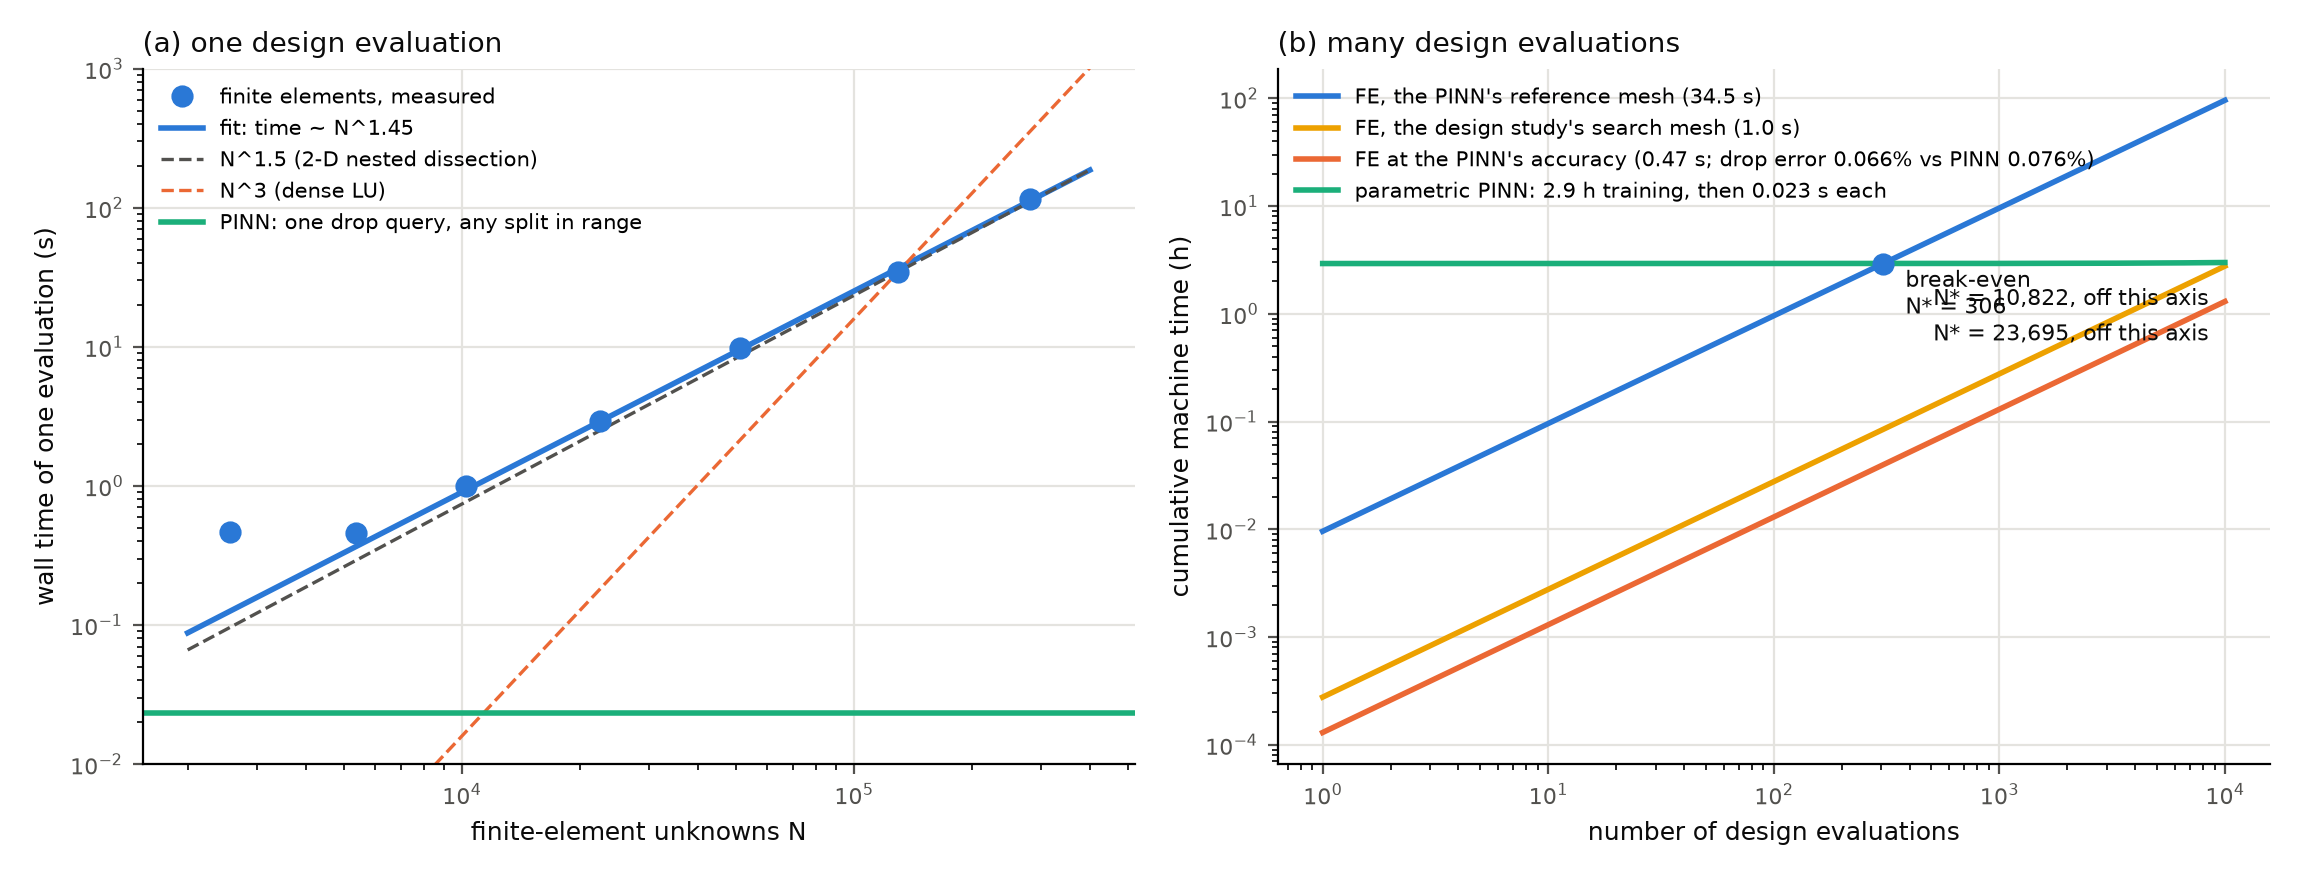
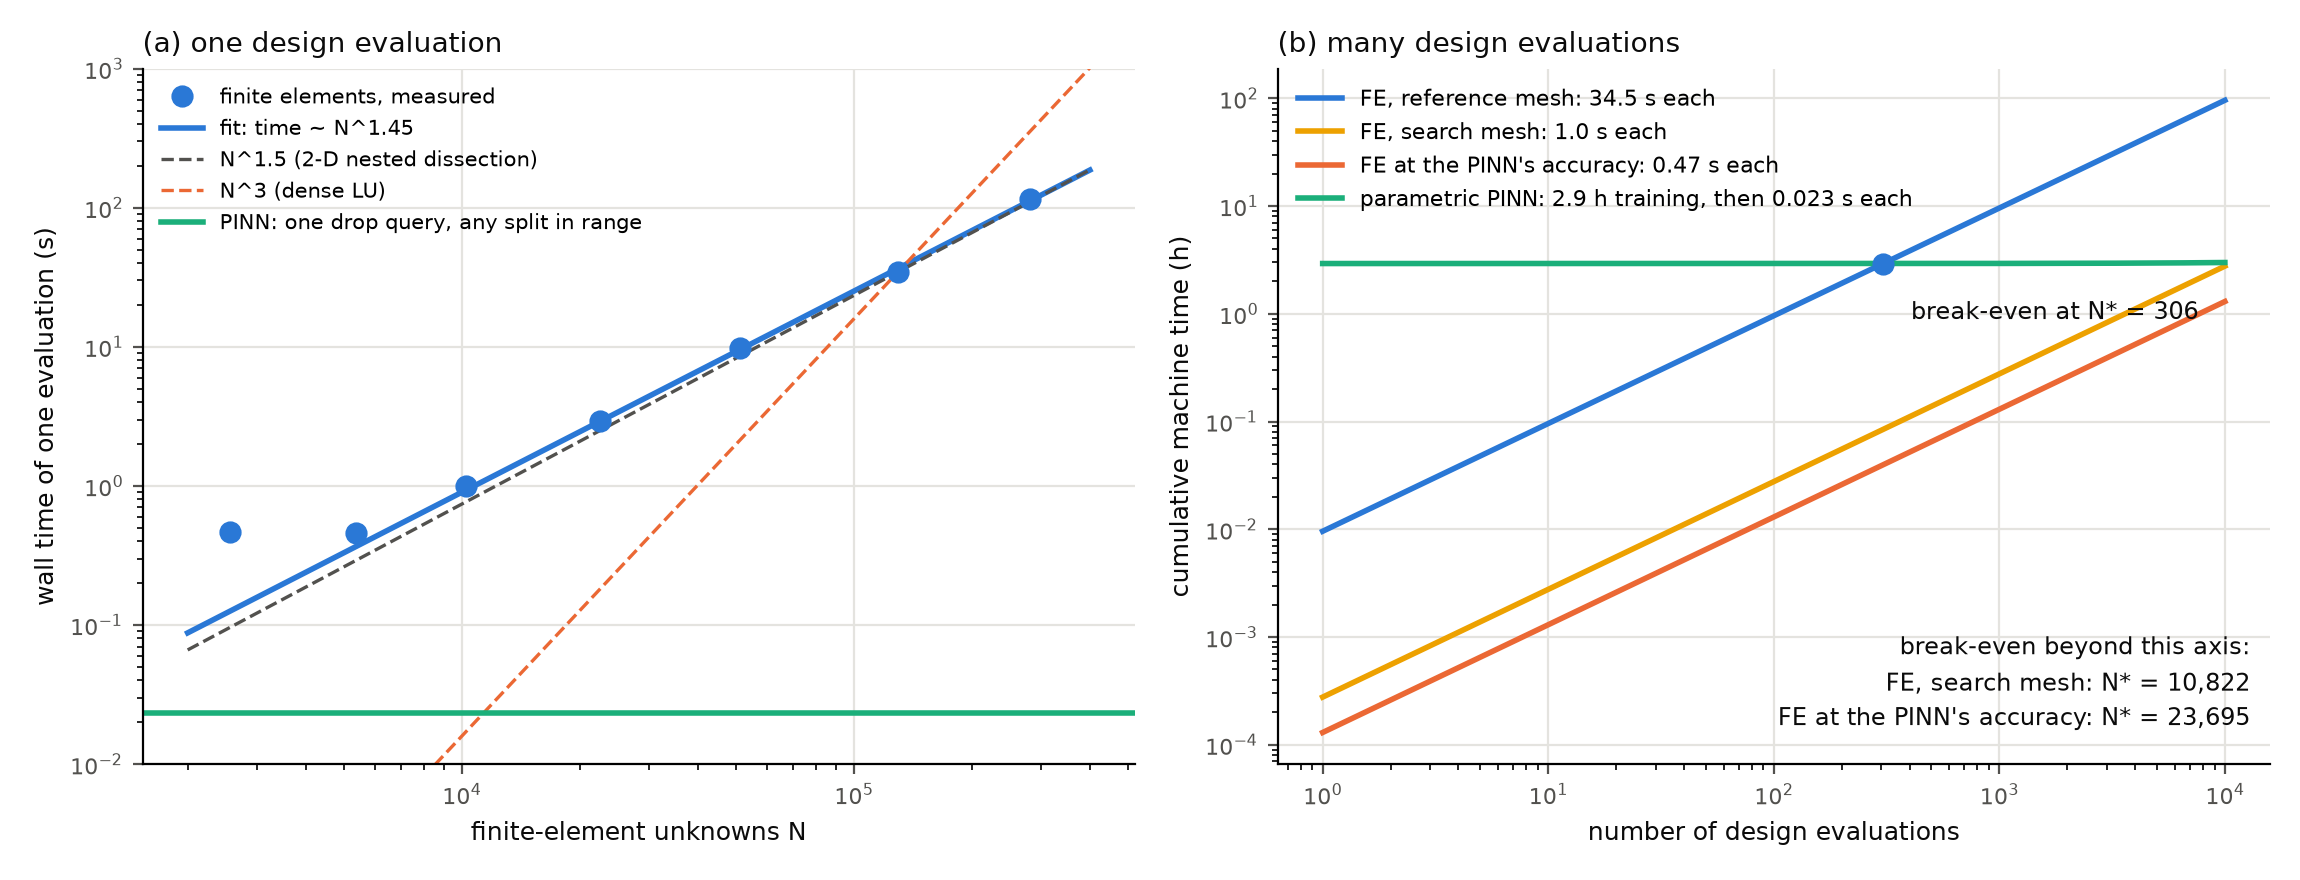
Figure A(b): separate the break-even labels
The N* = 306 label overlapped the two off-axis break-even notes. The
off-axis ones now share one note in the empty lower-right corner, the
306 label sits clear of it, and the legend entries are shorter.

Claude-Session: https://claude.ai/code/session_01AbTrWc9Te1W9eJvisv3vV1

Changed region(s): [[0.5557, 0.092, 0.8952, 0.2455], [0.7717, 0.7057, 0.9878, 0.8284], [0.8335, 0.3068, 0.957, 0.3989]]

diff --git a/docs/figures/fig_a_time_scaling.py b/docs/figures/fig_a_time_scaling.py
@@ -64,27 +64,29 @@ def main():
 
     # (b) cumulative machine time for N designs
     designs = np.logspace(0, 4, 200)
-    lines = ((SOLVE_S[5], BLUE, "FE, the PINN's reference mesh (34.5 s)"),
-             (SOLVE_S[2], YELLOW, "FE, the design study's search mesh (1.0 s)"),
-             (SOLVE_S[0], ORANGE, f"FE at the PINN's accuracy (0.47 s; drop error "
-                                  f"{100 * abs(DROP_ERROR[0]):.3f}% vs PINN {100 * abs(PINN_DROP_ERROR):.3f}%)"))
+    lines = ((SOLVE_S[5], BLUE, "FE, reference mesh: 34.5 s each"),
+             (SOLVE_S[2], YELLOW, "FE, search mesh: 1.0 s each"),
+             (SOLVE_S[0], ORANGE, "FE at the PINN's accuracy: 0.47 s each"))
+    beyond = []
     for each, colour, name in lines:
         b.loglog(designs, designs * each / 3600.0, color=colour, lw=2, label=name)
         crossing = TRAIN_S / (each - QUERY_S)
         if crossing <= designs[-1]:
             b.plot([crossing], [crossing * each / 3600.0], "o", color=colour, ms=7, zorder=4)
-            b.annotate(f"break-even\nN* = {crossing:,.0f}", (crossing, crossing * each / 3600.0),
-                       xytext=(8, -18), textcoords="offset points", fontsize=8, color=INK)
+            b.annotate(f"break-even at N* = {crossing:,.0f}", (crossing, crossing * each / 3600.0),
+                       xytext=(10, -20), textcoords="offset points", fontsize=8.5, color=INK)
         else:
-            b.annotate(f"N* = {crossing:,.0f}, off this axis", (designs[-1], designs[-1] * each / 3600.0),
-                       xytext=(-6, -14), textcoords="offset points", fontsize=8, color=INK,
-                       ha="right")
+            beyond.append(f"{name.split(':')[0]}: N* = {crossing:,.0f}")
     b.loglog(designs, (TRAIN_S + designs * QUERY_S) / 3600.0, color=AQUA, lw=2,
              label="parametric PINN: 2.9 h training, then 0.023 s each")
+    # the break-evens past 10^4 go in one note, in the empty corner under the lines
+    b.text(0.98, 0.04, "break-even beyond this axis:\n" + "\n".join(beyond),
+           transform=b.transAxes, ha="right", va="bottom", fontsize=8.5, color=INK,
+           linespacing=1.5)
     b.set_xlabel("number of design evaluations", fontsize=9, color=INK)
     b.set_ylabel("cumulative machine time (h)", fontsize=9, color=INK)
     b.set_title("(b) many design evaluations", fontsize=10, color=INK, loc="left")
-    b.legend(fontsize=7.5, frameon=False, loc="upper left")
+    b.legend(fontsize=8, frameon=False, loc="upper left")
     style(b)
 
     fig.tight_layout()
